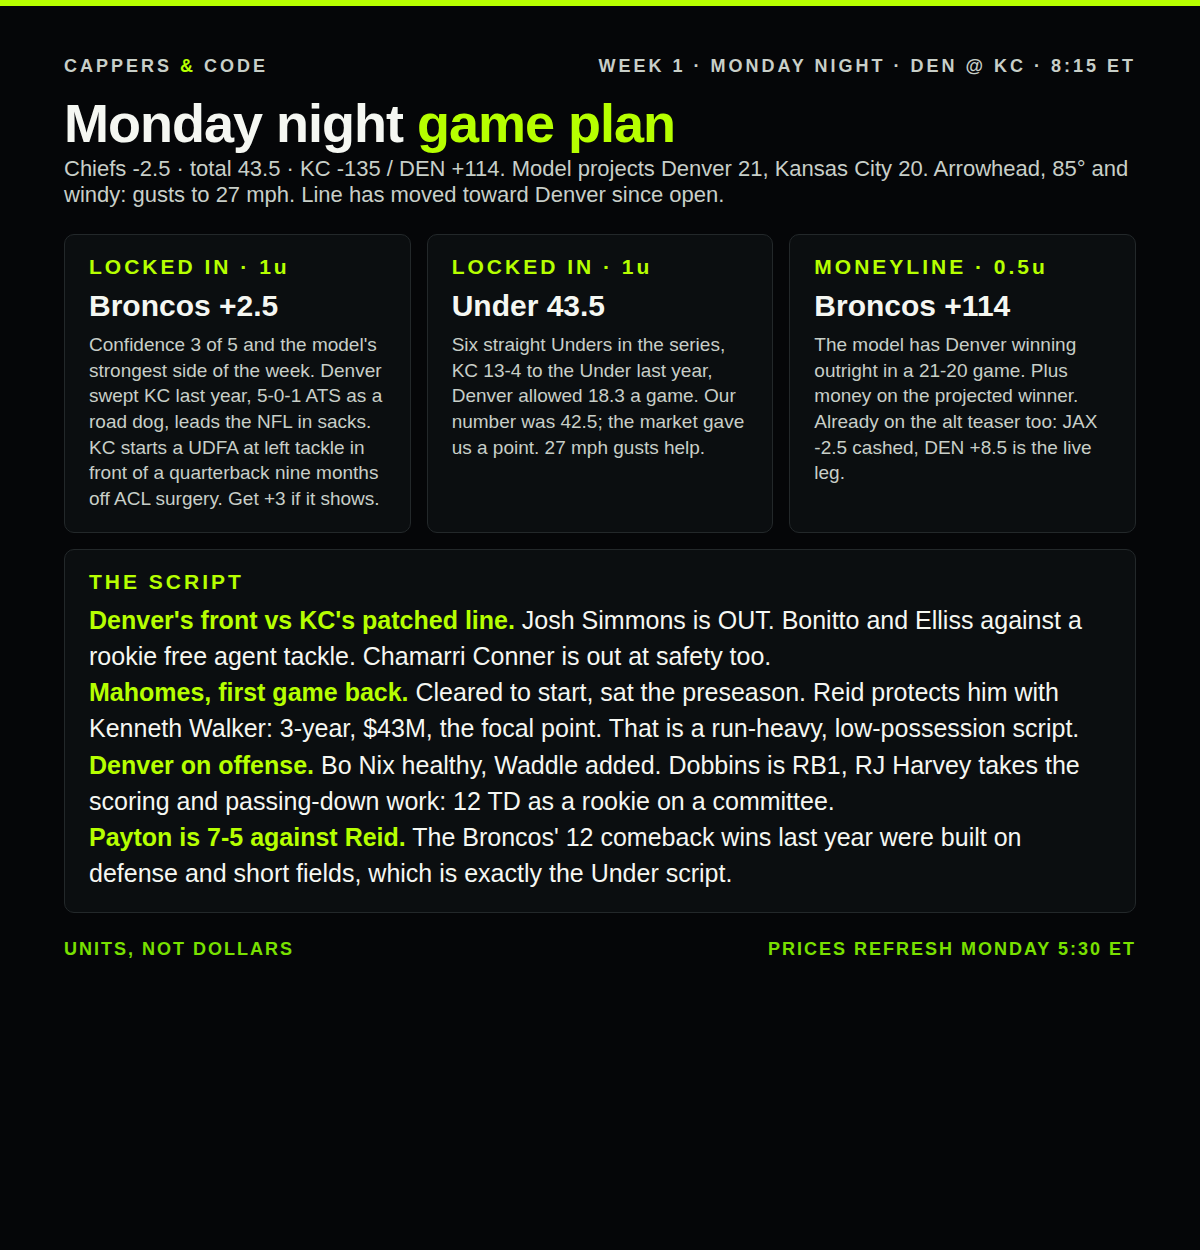
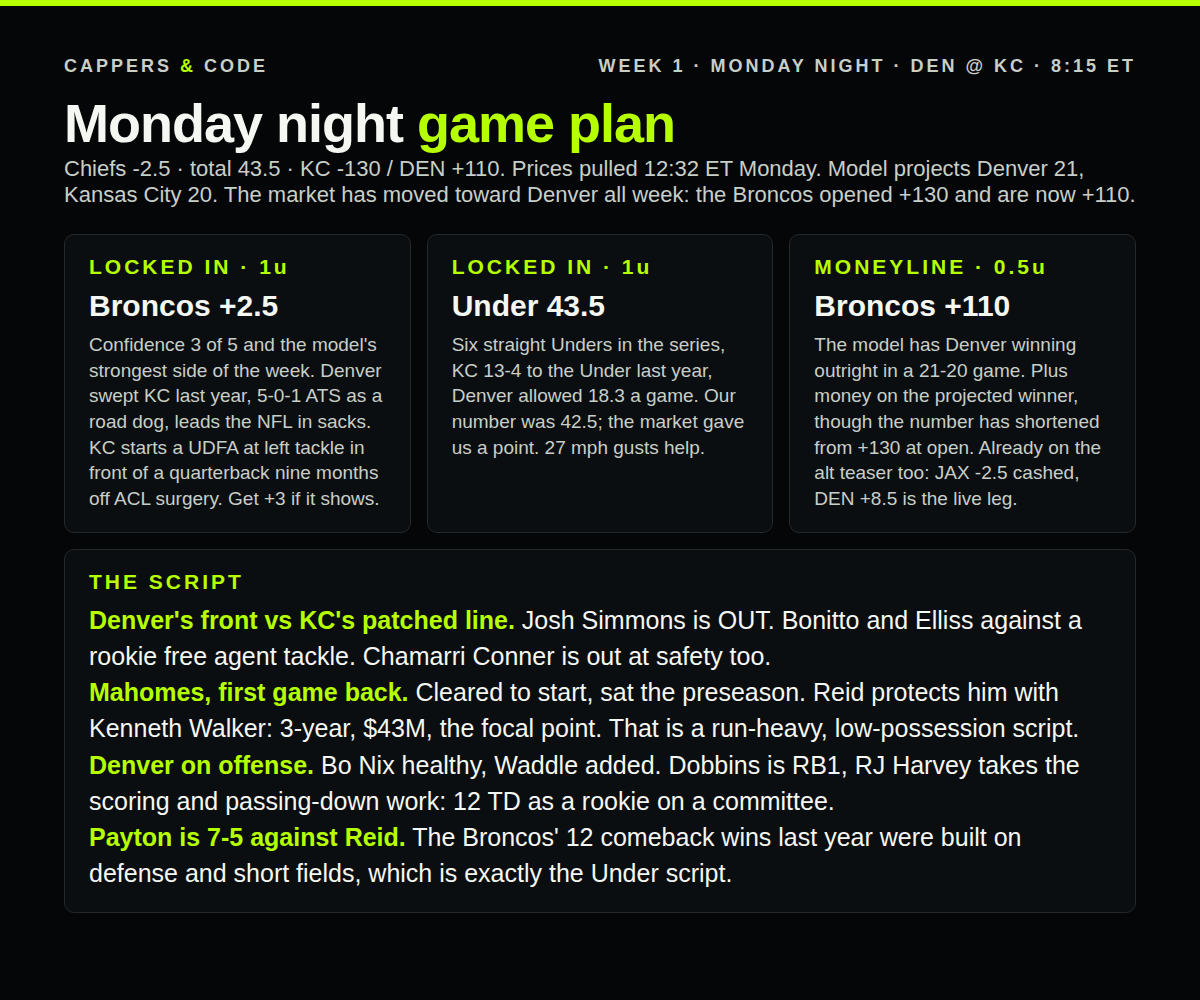
MNF card: live anytime and 2+ TD prices for DEN@KC
Both markets were already priced by the noon run, so the card no longer carries
Thursday's open or 'number posts Monday' placeholders.

- TD table now shows the live best price and book for anytime and 2+ TD, plus
  the model's fair price for the two-score market.
- RJ Harvey 2+ TD +3000 DK is the play: model 6.6% against the book's 3.2%, fair
  +1421. Rashee Rice 2+ TD +1400 BetRivers is the likelier one, fair +1096.
- Walker 2+ at +550 is explicitly a pass; the model has it at 15.3% against the
  book's 15.4%.
- Anytime parlays replaced the guessed same-game builds with computed prices and
  model joint probabilities, and the card says plainly that these are straight
  multiplication and a same-game book price will be lower.
- The card notes that every play leans on one player, so it gets sized as one bet.
- Moneyline updated to the current DEN +110, from +130 at open.

Claude-Session: https://claude.ai/code/session_01QLorhy8pwXBVsprT2JzAqk

Changed region(s): [[0.0308, 0.031, 0.9558, 0.899], [0.5858, 0.031, 0.9558, 0.093]]

diff --git a/site/sheets/w01-mnf.html b/site/sheets/w01-mnf.html
@@ -6,7 +6,7 @@
 <style>
   * { box-sizing: border-box; }
   body { margin: 0; background: #050608; color: #F5F7F2; font-family: -apple-system, "Segoe UI", Roboto, Helvetica, Arial, sans-serif; }
-  .card { width: 1200px; min-height: 1250px; padding: 56px 64px 48px; background: #050608; position: relative; overflow: hidden; }
+  .card { width: 1200px; min-height: 0; padding: 56px 64px 48px; background: #050608; position: relative; overflow: hidden; }
   body.only .card { display: none; }
   body.only .card:target { display: block; }
   .card::before { content: ""; position: absolute; left: 0; top: 0; width: 100%; height: 6px; background: #B6FF00; }
@@ -48,12 +48,12 @@
 <section class="card" id="plan">
   <div class="brand"><span>CAPPERS <b>&amp;</b> CODE</span><span>WEEK 1 · MONDAY NIGHT · DEN @ KC · 8:15 ET</span></div>
   <h1>Monday night <span>game plan</span></h1>
-  <p class="sub">Chiefs -2.5 · total 43.5 · KC -135 / DEN +114. Model projects Denver 21, Kansas City 20. Arrowhead, 85° and windy: gusts to 27 mph. Line has moved toward Denver since open.</p>
+  <p class="sub">Chiefs -2.5 · total 43.5 · KC -130 / DEN +110. Prices pulled 12:32 ET Monday. Model projects Denver 21, Kansas City 20. The market has moved toward Denver all week: the Broncos opened +130 and are now +110.</p>
 
   <div class="three">
     <div class="box"><h2>LOCKED IN · 1u</h2><div class="big">Broncos +2.5</div><div class="why">Confidence 3 of 5 and the model's strongest side of the week. Denver swept KC last year, 5-0-1 ATS as a road dog, leads the NFL in sacks. KC starts a UDFA at left tackle in front of a quarterback nine months off ACL surgery. Get +3 if it shows.</div></div>
     <div class="box"><h2>LOCKED IN · 1u</h2><div class="big">Under 43.5</div><div class="why">Six straight Unders in the series, KC 13-4 to the Under last year, Denver allowed 18.3 a game. Our number was 42.5; the market gave us a point. 27 mph gusts help.</div></div>
-    <div class="box"><h2>MONEYLINE · 0.5u</h2><div class="big">Broncos +114</div><div class="why">The model has Denver winning outright in a 21-20 game. Plus money on the projected winner. Already on the alt teaser too: JAX -2.5 cashed, DEN +8.5 is the live leg.</div></div>
+    <div class="box"><h2>MONEYLINE · 0.5u</h2><div class="big">Broncos +110</div><div class="why">The model has Denver winning outright in a 21-20 game. Plus money on the projected winner, though the number has shortened from +130 at open. Already on the alt teaser too: JAX -2.5 cashed, DEN +8.5 is the live leg.</div></div>
   </div>
 
   <div class="box" style="margin-top:16px"><h2>THE SCRIPT</h2>
@@ -64,42 +64,45 @@
       <li><b>Payton is 7-5 against Reid.</b> The Broncos' 12 comeback wins last year were built on defense and short fields, which is exactly the Under script.</li>
     </ul>
   </div>
-  <div class="foot"><span>UNITS, NOT DOLLARS</span><span>PRICES REFRESH MONDAY 5:30 ET</span></div>
+  <div class="foot"><span>UNITS, NOT DOLLARS</span><span>PRICES PULLED 12:32 ET MONDAY</span></div>
 </section>
 
 <section class="card" id="td">
   <div class="brand"><span>CAPPERS <b>&amp;</b> CODE</span><span>WEEK 1 · MONDAY NIGHT · DEN @ KC · 8:15 ET</span></div>
   <h1>Touchdowns, props <span>and builds</span></h1>
-  <p class="sub">Anytime prices are Thursday's open. 2+ TD, yardage and fresh anytime numbers land on the Monday 5:30 ET refresh. Play now only where the number is already inside our fair price.</p>
+  <p class="sub">Live prices, both markets, pulled 12:32 ET Monday. Est is the model's chance to score at all; the 2+ TD column is that estimate converted to a two-score rate and compared with the book.</p>
   <table class="td">
-    <tr><th>#</th><th>Player</th><th style="text-align:right">Anytime</th><th style="text-align:right">Est</th><th style="text-align:right">Edge</th><th style="text-align:right">Play 2+ TD at</th></tr>
-    <tr><td class="p">1</td><td>RJ Harvey <small>RB · scoring back</small></td><td class="r p">+280 FD</td><td class="r">34%</td><td class="r e">+7.7</td><td class="r">+1000 or better</td></tr>
-    <tr><td class="p">2</td><td>Kenneth Walker III <small>RB · workhorse</small></td><td class="r p">-120 FD</td><td class="r">50%</td><td class="r neg">-4.5</td><td class="r">+400 or better</td></tr>
-    <tr><td class="p">3</td><td>Bo Nix <small>QB · 5 rush TD in 2025</small></td><td class="r p">+600 FD</td><td class="r">20%</td><td class="r e">+5.7</td><td class="r">—</td></tr>
-    <tr><td class="p">4</td><td>Evan Engram <small>TE · Conner out</small></td><td class="r p">+470 FD</td><td class="r">22%</td><td class="r e">+4.5</td><td class="r">—</td></tr>
-    <tr><td class="p">5</td><td>Rashee Rice <small>WR · first read</small></td><td class="r p">+145 FD</td><td class="r">38%</td><td class="r neg">-2.8</td><td class="r">+1000 or better</td></tr>
-    <tr><td class="p">6</td><td>J.K. Dobbins <small>RB1 by snaps</small></td><td class="r p">+180</td><td class="r">36%</td><td class="r e">+0.3</td><td class="r">—</td></tr>
+    <tr><th>#</th><th>Player</th><th style="text-align:right">Anytime</th><th style="text-align:right">Est</th><th style="text-align:right">Edge</th><th style="text-align:right">2+ TD</th><th style="text-align:right">2+ fair</th></tr>
+    <tr><td class="p">1</td><td>RJ Harvey <small>DEN RB · the scoring back</small></td><td class="r p">+300 DK</td><td class="r">34%</td><td class="r e">+9.0</td><td class="r p">+3000 DK</td><td class="r e">+1421</td></tr>
+    <tr><td class="p">2</td><td>Evan Engram <small>DEN TE · red-zone target</small></td><td class="r p">+480 FD</td><td class="r">22%</td><td class="r e">+4.8</td><td class="r p">+5500 FD</td><td class="r e">+3717</td></tr>
+    <tr><td class="p">3</td><td>Bo Nix <small>DEN QB · 5 rush TD in 2025</small></td><td class="r p">+550 DK</td><td class="r">20%</td><td class="r e">+4.6</td><td class="r p">+7500 DK</td><td class="r e">+4554</td></tr>
+    <tr><td class="p">4</td><td>Rashee Rice <small>KC WR · first read</small></td><td class="r p">+170 BR</td><td class="r">38%</td><td class="r e">+1.0</td><td class="r p">+1400 BR</td><td class="r e">+1096</td></tr>
+    <tr><td class="p">5</td><td>Kenneth Walker III <small>KC RB · workhorse</small></td><td class="r p">-110 FD</td><td class="r">50%</td><td class="r neg">-2.4</td><td class="r">+550 FD</td><td class="r neg">+552</td></tr>
+    <tr><td class="p">6</td><td>J.K. Dobbins <small>DEN RB1 by snaps</small></td><td class="r p">+175 FD</td><td class="r">36%</td><td class="r e">+0.3</td><td class="r">—</td><td class="r">—</td></tr>
   </table>
 
   <div class="two" style="margin-top:18px">
-    <div class="box"><h2>PROPS · 1u</h2>
+    <div class="box"><h2>2+ TD · 0.25u</h2>
       <ul class="bets">
-        <li><b>Bo Nix under 1.5 pass TD</b> · run, defense, short fields</li>
-        <li><b>Kenneth Walker over 59.5 rush</b> · three-down role, KC needs the ground game</li>
-        <li><b>Mahomes under his pass yards line</b> · first game back, wind, six straight Unders. Number posts Monday</li>
+        <li><b>RJ Harvey 2+ TD +3000 DK</b> · model 6.6% vs the book's 3.2%. Fair price +1421, so this is better than double what it should pay.</li>
+        <li><b>Rashee Rice 2+ TD +1400 BetRivers</b> · model 8.4% vs 6.7%. Fair +1096. The likeliest of the two to actually land.</li>
+        <li><b>Pass on Walker 2+ at +550.</b> Model 15.3%, book 15.4%. A coin flip with juice is not a play.</li>
       </ul>
     </div>
-    <div class="box"><h2>SAME-GAME BUILDS · 0.25u</h2>
+    <div class="box"><h2>ANYTIME PARLAYS · 0.25u</h2>
       <ul class="bets">
-        <li><b>Broncos ML · Harvey ATD · Nix u1.5 pass TD</b> · the road-dog script, about +900</li>
-        <li><b>Under 43.5 · Walker ATD · Harvey ATD</b> · RBs take the few scores, about +500</li>
-        <li><b>Chiefs ML · Walker ATD</b> · the KC path, about +150</li>
+        <li><b>Walker -110 · Harvey +300</b> · <b>+664</b>, model 17.0%, fair +488</li>
+        <li><b>Rice +170 · Harvey +300</b> · <b>+980</b>, model 12.9%, fair +674</li>
+        <li><b>Walker · Rice · Harvey</b> · <b>+1962</b>, model 6.5%, fair +1448</li>
+        <li>Prices are straight multiplication. Every leg is in this game, so your book will price the same-game version lower. Take their number.</li>
       </ul>
     </div>
   </div>
 
-  <div class="ticket" style="margin-top:16px"><div class="n">M1</div><div class="legs">RJ Harvey ATD +280 FD · Bo Nix ATD +600 FD<small>Same game, same script: Denver scores on the ground. Book SGP pricing will differ.</small></div><div class="pay"><div class="odds">≈ +2500</div><div class="hit">model 7%</div></div></div>
-  <div class="ticket"><div class="n">M2</div><div class="legs">Broncos +2.5 · Under 43.5 · Harvey ATD<small>Everything the model believes about this game on one ticket.</small></div><div class="pay"><div class="odds">≈ +1100</div><div class="hit">0.25u</div></div></div>
+  <div class="ticket" style="margin-top:16px"><div class="n">M1</div><div class="legs">RJ Harvey 2+ TD +3000 DraftKings<small>One player, the biggest overlay on the board. Model 6.6%, book 3.2%.</small></div><div class="pay"><div class="odds">+3000</div><div class="hit">0.25u</div></div></div>
+  <div class="ticket"><div class="n">M2</div><div class="legs">Kenneth Walker anytime -110 FD · RJ Harvey anytime +300 DK<small>Each side's scoring back. The best two-leg edge in the game.</small></div><div class="pay"><div class="odds">+664</div><div class="hit">model 17%</div></div></div>
+  <div class="ticket"><div class="n">M3</div><div class="legs">Broncos +2.5 · Under 43.5 · Harvey anytime<small>Everything the model believes about this game on one ticket.</small></div><div class="pay"><div class="odds">≈ +1100</div><div class="hit">0.25u</div></div></div>
+  <div class="note" style="margin-top:14px;color:#C8CFC8;font-size:19px;line-height:1.4">Every play above leans on RJ Harvey, who carries a nine-point anytime edge, the largest in the game. Size it like one bet, not three.</div>
   <div class="foot"><span>UNITS, NOT DOLLARS</span><span>LOCKED IN. TRUST THE CODE.</span></div>
 </section>
 
